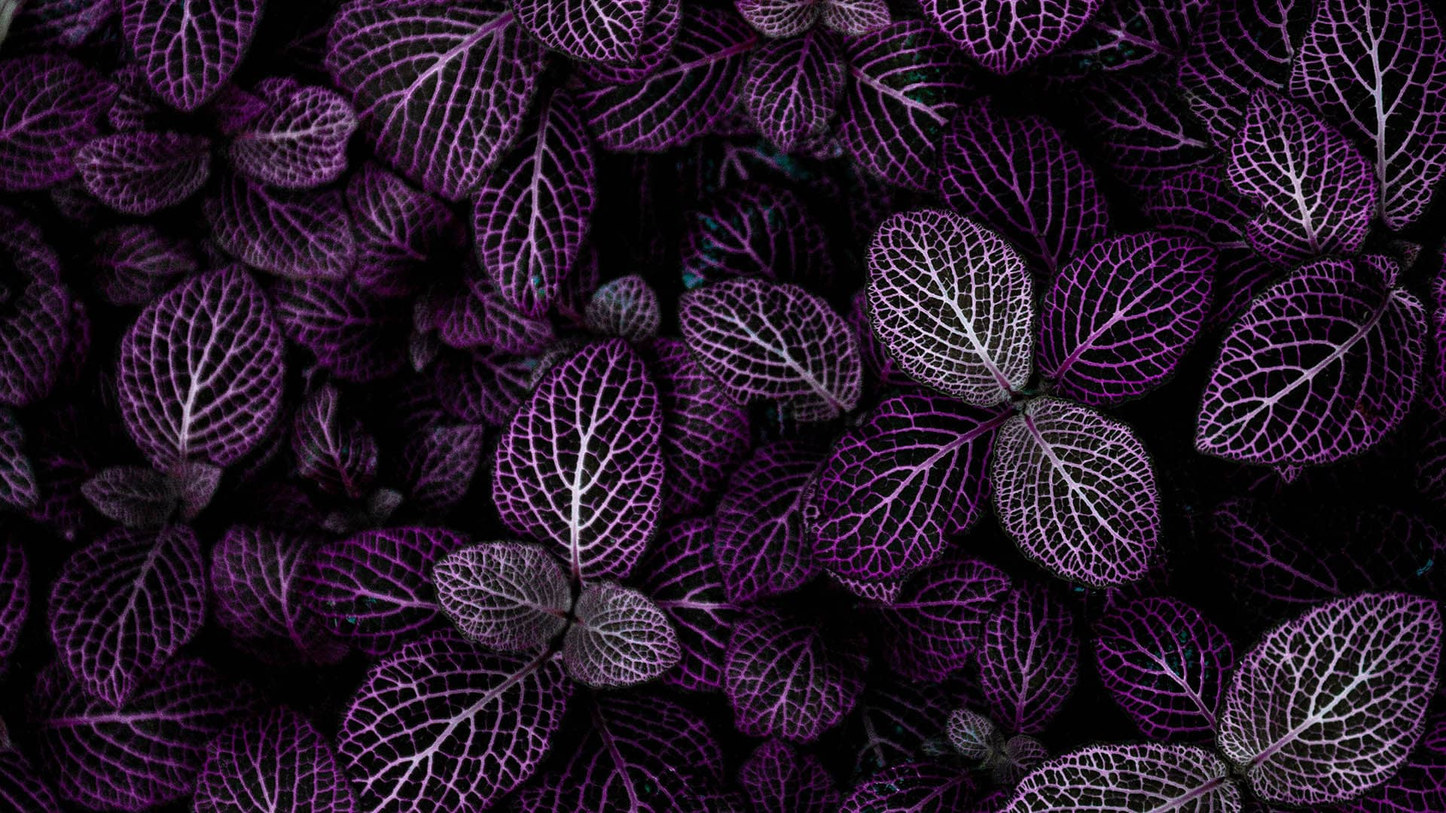
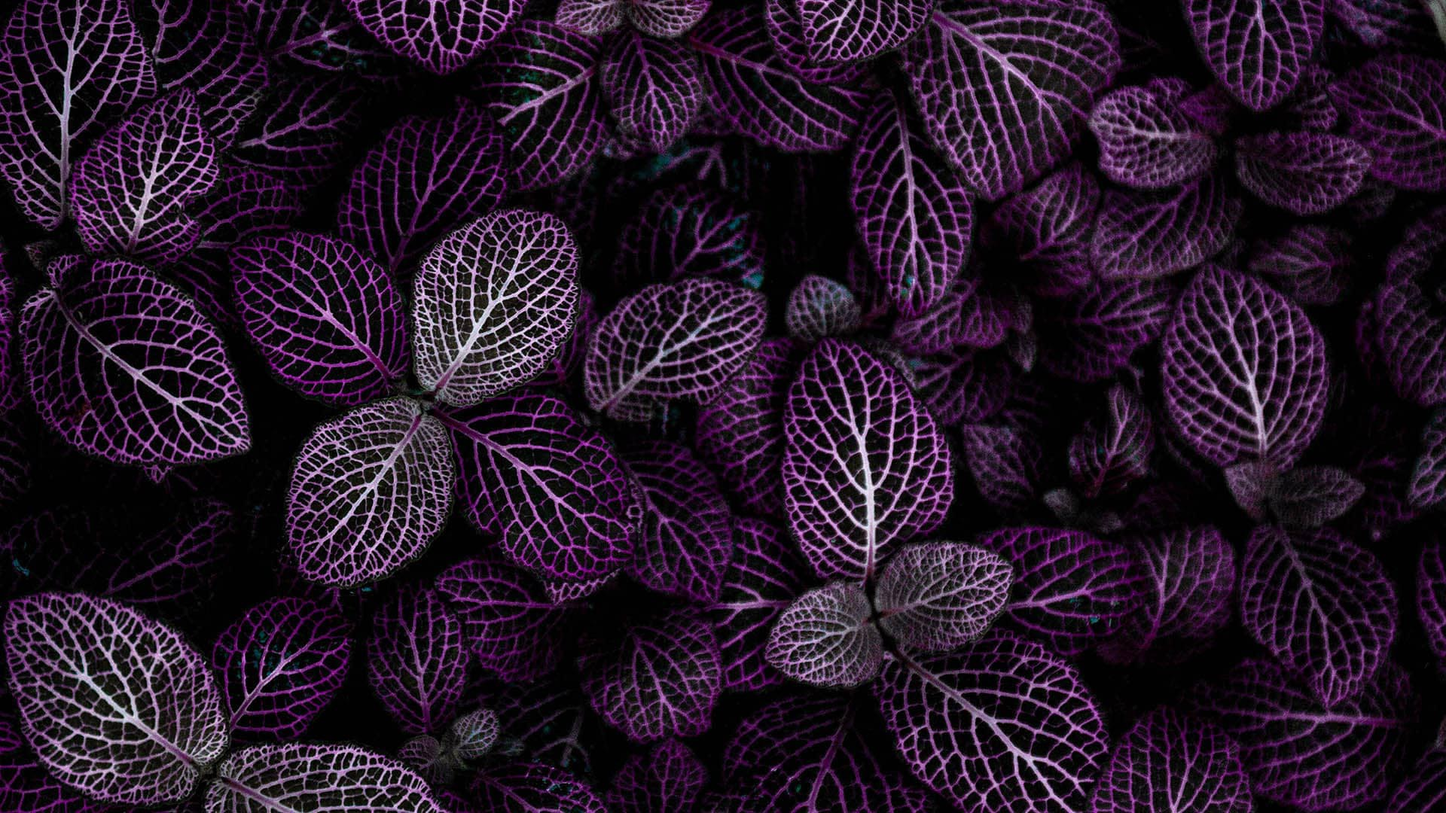
Responsive changes

diff --git a/assets/style.scss b/assets/style.scss
@@ -37,13 +37,38 @@ h2 {
 
 body > header {
     height: 100vh;
+    background-image: url('./background.png');
+    background-repeat: no-repeat;
+    background-position: center right;
+    background-size: contain;
 
+    @media (max-width: 768px) {
+        background: none;
+    }
+
+    >.container {
+        height: 100%;
+        position: relative;
+    }
+
+    .jumbo {
+        height: 100%;
+        display: flex;
+        align-items: center;
+    }
 
     nav {
         display: flex;
         align-items: center;
         justify-content: space-between;
         padding: 3rem 0;
+        position: absolute;
+        top: 0;
+        width: 100%;
+
+        .logo {
+            height: 4rem;
+        }
 
         .left {
             display: flex;
@@ -61,15 +86,32 @@ body > header {
             margin: 0;
             padding: 0;
             display: flex;
+        }
 
-            a {
-                padding: 0.5rem 1rem;
-                transition: 100ms;
+        .right {
+            display: flex;
+            align-items: center;
 
-                &:hover {
-                    color: #7733FF;
-                }
+            .number {
+                background: #7733FF;
+                border-radius: 50%;
+                color: #fff;
+                width: 2.5rem;
+                height: 2.5rem;
+                display: flex;
+                justify-content: center;
+                align-items: center;
+                font-weight: bold;
             }
+        }
+    }
+
+    a {
+        padding: 0.5rem 1rem;
+        transition: 100ms;
+
+        &:hover {
+            color: #7733FF;
         }
     }
 

diff --git a/assets/style.css b/assets/style.css
@@ -37,12 +37,36 @@ h2 {
 
 body > header {
   height: 100vh;
+  background-image: url("./background.png");
+  background-repeat: no-repeat;
+  background-position: center right;
+  background-size: contain;
+}
+@media (max-width: 768px) {
+  body > header {
+    background: none;
+  }
+}
+body > header > .container {
+  height: 100%;
+  position: relative;
+}
+body > header .jumbo {
+  height: 100%;
+  display: flex;
+  align-items: center;
 }
 body > header nav {
   display: flex;
   align-items: center;
   justify-content: space-between;
   padding: 3rem 0;
+  position: absolute;
+  top: 0;
+  width: 100%;
+}
+body > header nav .logo {
+  height: 4rem;
 }
 body > header nav .left {
   display: flex;
@@ -59,11 +83,26 @@ body > header nav ul {
   padding: 0;
   display: flex;
 }
-body > header nav ul a {
+body > header nav .right {
+  display: flex;
+  align-items: center;
+}
+body > header nav .right .number {
+  background: #7733FF;
+  border-radius: 50%;
+  color: #fff;
+  width: 2.5rem;
+  height: 2.5rem;
+  display: flex;
+  justify-content: center;
+  align-items: center;
+  font-weight: bold;
+}
+body > header a {
   padding: 0.5rem 1rem;
   transition: 100ms;
 }
-body > header nav ul a:hover {
+body > header a:hover {
   color: #7733FF;
 }
 body > header .header-container {

diff --git a/index.html b/index.html
@@ -17,7 +17,7 @@
     <div class="container">
         <nav>
             <div class="left">
-                <img src="#" alt="" class="logo">
+                <img src="./assets/logo.svg" alt="" class="logo">
                 <ul>
                     <li><a href="#">O produktu</a></li>
                     <li><a href="#">O nás</a></li>
@@ -29,7 +29,7 @@
                 <p class="number">3</p>
             </div>
         </nav>
-        <div class="row">
+        <div class="row jumbo">
             <div class="col-md-6">
                 <div class="text">
                     <h1>Chcete se okamžitě soustředit?</h1>
@@ -37,9 +37,7 @@
                     <a href="#" class="btn btn-primary bhbutton">Koupit plechovku</a>
                 </div>
             </div>
-            <div class="col-md-6 image">
-                <img src="./assets/background.png" alt="">
-            </div>
+
         </div>
 
     </div>
